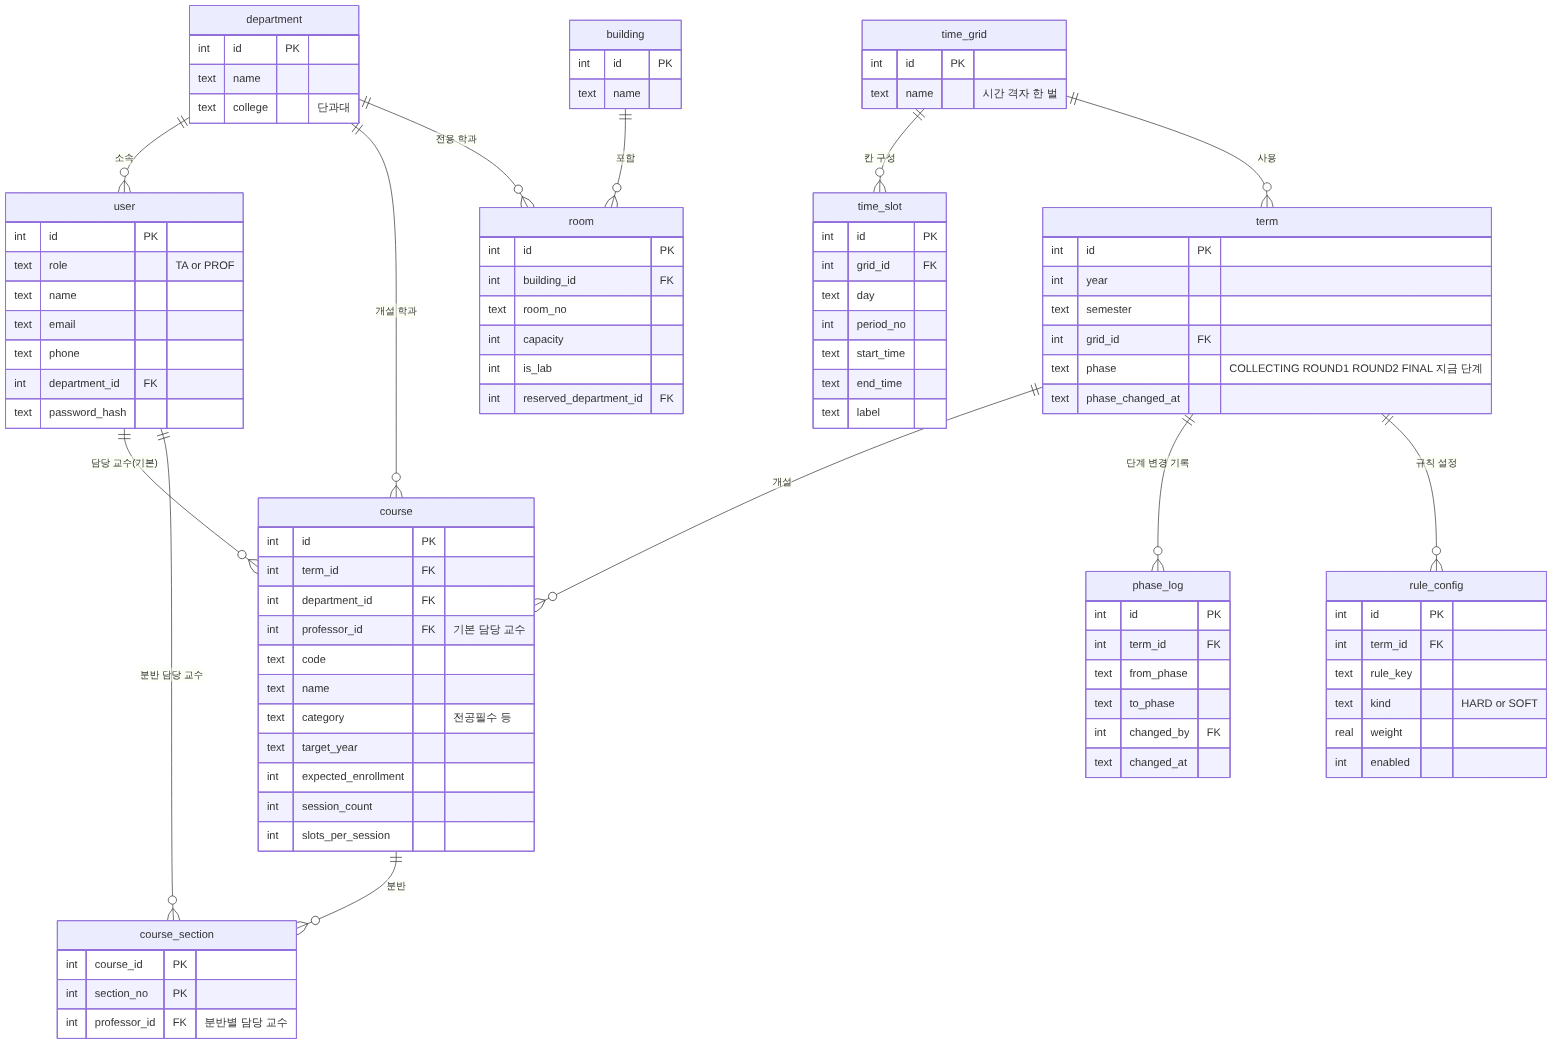
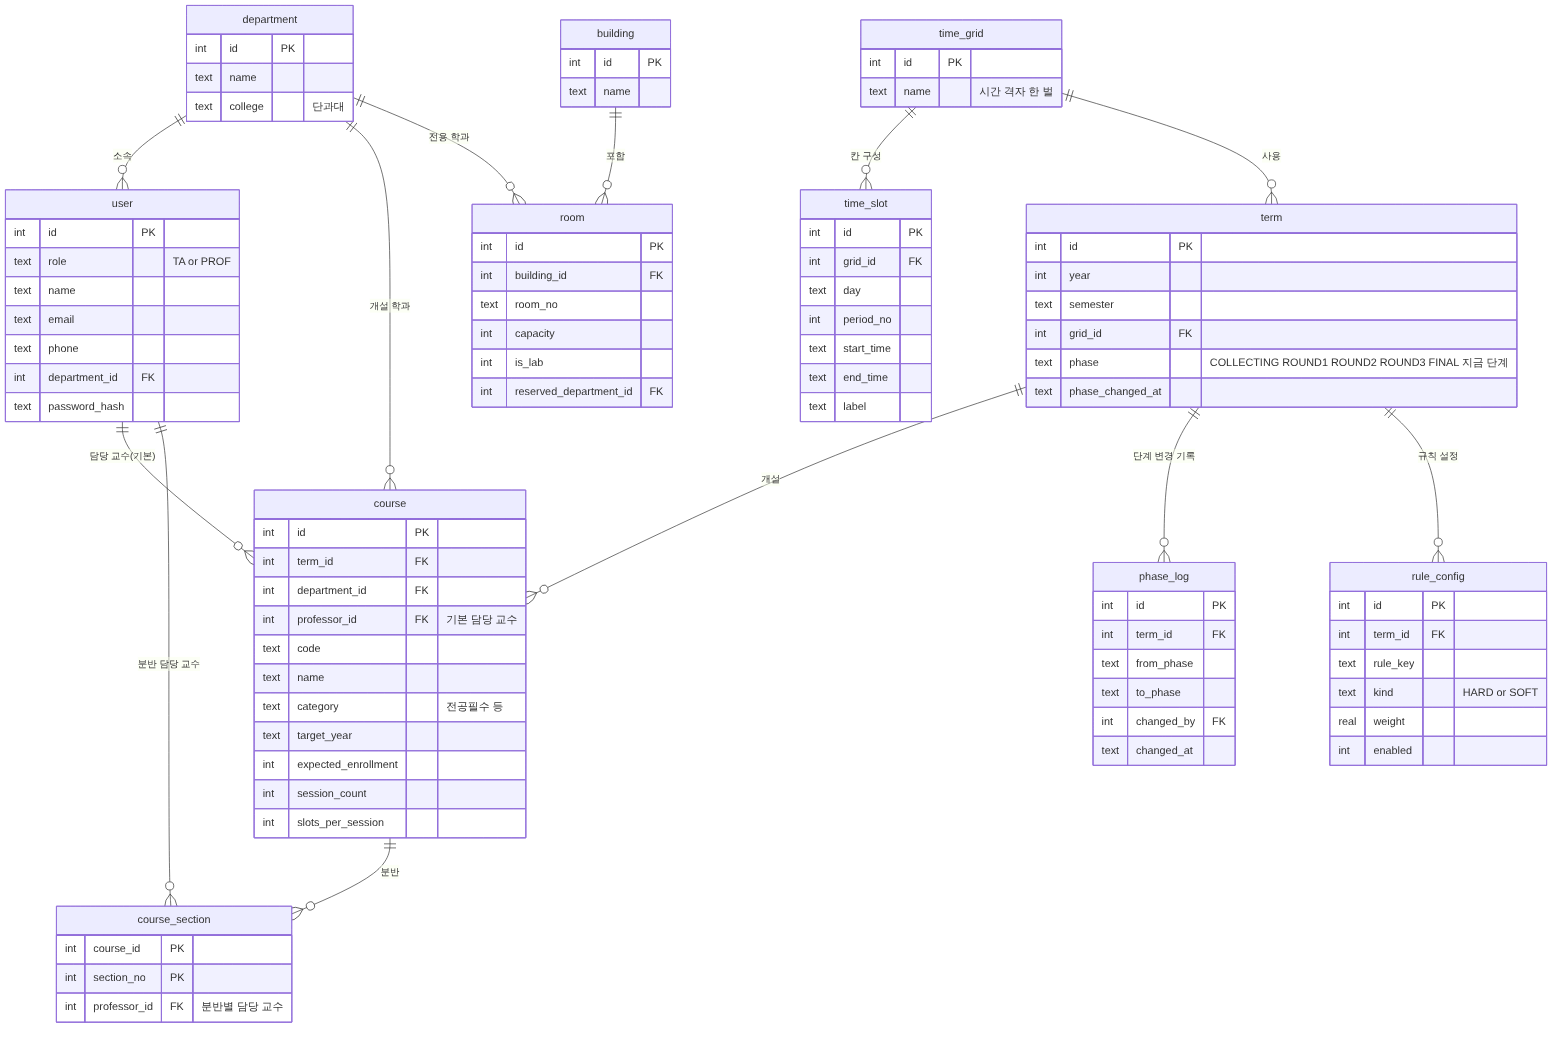
db, solver: 단계에 3차 조율(ROUND3) 추가, day_slots 검사 스크립트 추가
- db: term.phase에 ROUND3 추가 (희망 수집 → 1차 → 2차 → 3차 → 확정). db.py PHASES·라벨,
  변경 SQL 004(term 다시 만들기), archive/schema_v6.sql(003까지의 모양), README·ER(c1, c2) 갱신
- db/tests/test_migration.py: 004까지 두 경로 검사, 진행 중이던 학기의 단계가 그대로 유지되는지 확인
- solver: tests/run_ds.py 추가(alternatives의 day_slots 조건 검사), run_ph.py에 3차 조율 단계 추가,
  SOLVER_API.md 단계 설명 갱신
- AI 도구 사용: Claude Code로 작성하고 가상 데이터로 검사

Claude-Session: https://claude.ai/code/session_019RDjZfYuxESNMrtJifXudv

diff --git a/solver/tests/run_ds.py b/solver/tests/run_ds.py
@@ -1,0 +1,49 @@
+"""day_slots 조건 검사: 요일 둘 이상 / 하나 / 빈 값 / 연강 / 안 맞는 시각"""
+from test_solver2 import *
+c = build(); sp = add_section_profs(c)
+r = sc.solve(c, 1, 1, time_limit=30); tt = r['timetable_id']
+print("1차:", r['status'], "못놓음", len(r['unplaced'])); verify(c, tt)
+info = {sid: (d, st) for sid, d, st in c.execute("select id, day, start_time from time_slot")}
+DAYN = {"월": 0, "화": 1, "수": 2, "목": 3, "금": 4}
+pos = lambda sid: (DAYN[info[sid][0]], info[sid][1])
+prev = sc.load_assignment(c, tt)[0]
+
+def cand(single):   # 2회×1칸 분반이고, 분반이 하나인 과목 중 single_day_pref가 single인 것
+    for (cid, sec, ss) in prev:
+        if cid in sp or sec != 1: continue
+        row = c.execute("select single_day_pref from course_response where course_id=? limit 1", (cid,)).fetchone()
+        if row and row[0] == single:
+            n = c.execute("select count(distinct session_no) from assignment where timetable_id=? and course_id=?", (tt, cid)).fetchone()[0]
+            if single == 'NONE' and n == 2: return cid
+            if single == 'MUST' and n == 1: return cid
+    return None
+
+def run(name, cid, cond, check, n=3):
+    a = sc.alternatives(c, 1, 1, tt, cid, condition=cond, n=n, time_limit=10)
+    cells = [[pos(v[0]) for v in x['placements'].values()] for x in a]
+    ok = check(cells)
+    print(f"[{name}] 대안 {len(a)}개 {cells[:2]}  조건 {'OK' if ok else '위반!!'}")
+    return a
+
+cid = cand('NONE'); print("대상(주 2회):", cid, "현재:", [pos(v[0]) for k, v in prev.items() if k[0] == cid])
+# 1) 요일 둘 이상: 월 13:30·15:00 시작, 수는 아무 교시 -> 월·수 밖에는 없고, 월은 그 두 시각만
+a = run("월(13:30,15:00)+수(전체)", cid, {"day_slots": {"0": ["13:30", "15:00"], "2": []}},
+        lambda cs: all(d in (0, 2) and (d == 2 or t in ("13:30", "15:00")) for row in cs for d, t in row))
+# 2) 요일 하나: 화 10:30만 -> 화가 들어가야 하고 화는 10:30만, 다른 하루는 자유
+a = run("화 10:30만 (하나)", cid, {"day_slots": {"1": ["10:30"]}},
+        lambda cs: all(any(d == 1 for d, _ in row) and all(t == "10:30" for d, t in row if d == 1) for row in cs))
+# 3) 빈 값: 조건 없음 -> 조건 없이 한 것과 같은 개수
+b1 = sc.alternatives(c, 1, 1, tt, cid, condition={"day_slots": {}}, n=3, time_limit=10)
+b2 = sc.alternatives(c, 1, 1, tt, cid, condition=None, n=3, time_limit=10)
+print(f"[빈 day_slots] 대안 {len(b1)}개 / 조건 없음 {len(b2)}개  {'OK' if len(b1) == len(b2) else '다름!!'}")
+# 4) 시작 시각이 격자에 없음 -> 불가능(0개). 조건이 무시되면 안 된다
+a = run("격자에 없는 시각만(월 13:00, 수 15:30)", cid, {"day_slots": {"0": ["13:00"], "2": ["15:30"]}}, lambda cs: len(cs) == 0)
+# 5) end_before와 같이: 화 전체 + 수 전체, 수는 12:00 전에 끝
+a = run("화·수 전체 + 수 13:30 전 종료(end_before)", cid, {"day_slots": {"1": [], "2": []}, "end_before": [{"day": 2, "time": "13:30"}]},
+        lambda cs: all(d in (1, 2) and (d != 2 or t in ("09:00", "10:30")) for row in cs for d, t in row))
+# 6) 연강(2칸 연속) 분반: 두 교시가 모두 있어야 함
+cm = cand('MUST'); print("대상(연강):", cm, "현재:", [pos(v[0]) for k, v in prev.items() if k[0] == cm])
+if cm:
+    a = run("연강: 목 13:30만 (15:00 빠짐)", cm, {"day_slots": {"3": ["13:30"]}}, lambda cs: len(cs) == 0 or all(d != 3 for row in cs for d, _ in row))
+    a = run("연강: 목 13:30+15:00", cm, {"day_slots": {"3": ["13:30", "15:00"]}},
+            lambda cs: len(cs) > 0 and all(d == 3 for row in cs for d, _ in row))

diff --git a/db/tests/test_migration.py b/db/tests/test_migration.py
@@ -59,17 +59,20 @@ def build_v3():
 def counts(con, tabs): return {t: con.execute(f"select count(*) from {t}").fetchone()[0] for t in tabs}
 KEEP = ("response_slot", "proposal", "reply_interpretation", "assignment", "course", "term")
 
-print("=== 경로 1: schema_v3 → 001 → 002 → 003")
+print("=== 경로 1: schema_v3 → 001 → 002 → 003 → 004")
 old = build_v3(); before = counts(old, KEEP); before["response_slot"] -= 1   # AVOID 1개는 003에서 지워지는 게 정상
 run(P("migrations","001_20261121_feedback.sql"), old)
 run(P("migrations","002_20261122_phase_other_request.sql"), old)
 run(P("migrations","003_20261122_lab_binary_no_avoid.sql"), old)
-ok1 = compare("001+002+003 적용 후", old)
+old.execute("UPDATE term SET phase='ROUND2', phase_changed_at='2026-11-22 10:00:00' WHERE id=1"); old.commit()   # 004 전에 진행 중이던 학기
+run(P("migrations","004_20261122_phase_round3.sql"), old)
+ok1 = compare("001~004 적용 후", old)
 print("  행 수 보존:", before == counts(old, KEEP), "| 응답 수:", old.execute("select count(*) from course_response").fetchone()[0])
 print("  기타 요청 옮김:", old.execute("select id, response_id, body, status from other_request").fetchall())
 print("  prefer_only:", old.execute("select id, prefer_only from course_response order by id").fetchall())
 print("  request_item:", old.execute("select id, response_id, type, value_int, source, created_by, created_at, other_request_id from request_item order by id").fetchall())
-print("  term 단계:", old.execute("select id, phase, phase_changed_at from term").fetchall())
+print("  term 단계(ROUND2 그대로여야 함):", old.execute("select id, phase, phase_changed_at from term").fetchall())
+old.execute("UPDATE term SET phase='ROUND3' WHERE id=1"); print("  ROUND3 허용: OK")
 print("  응답 칸(AVOID 삭제, 2개 남아야 함):", old.execute("select slot_id, kind from response_slot where response_id=100 order by slot_id").fetchall())
 print("  실습실 값(REQUIRE→1, NONE→0):", old.execute("select id, lab_requirement from course_response order by id").fetchall())
 for bad in ["INSERT INTO term(id,year,semester,grid_id,phase) VALUES (9,2027,'1',1,'아무거나')",
@@ -80,12 +83,13 @@ for bad in ["INSERT INTO term(id,year,semester,grid_id,phase) VALUES (9,2027,'1'
     try: old.execute(bad); print("  거부 안 됨!!", bad[:60])
     except sqlite3.IntegrityError as e: print("  새 규칙 거부 OK:", str(e)[:60])
 
-print("\n=== 경로 2: schema_v4(001까지 적용된 모양)에서 002 → 003")
+print("\n=== 경로 2: schema_v4(001까지 적용된 모양)에서 002 → 003 → 004")
 v4 = sqlite3.connect(":memory:"); v4.executescript(open(P("archive","schema_v4.sql")).read()); seed(v4)
 v4.execute("INSERT INTO course_response(id,round_id,course_id,professor_id,lab_requirement,single_day_pref,note) VALUES (100,1,10,2,'PREFER','PREFER','메모')")
 v4.execute("INSERT INTO request_item(response_id,type,value_int) VALUES (100,'SECTION_COUNT',2)"); v4.commit()
 run(P("migrations","002_20261122_phase_other_request.sql"), v4)
 run(P("migrations","003_20261122_lab_binary_no_avoid.sql"), v4)
-ok2 = compare("v4 + 002 + 003", v4)
+run(P("migrations","004_20261122_phase_round3.sql"), v4)
+ok2 = compare("v4 + 002~004", v4)
 print("  응답:", v4.execute("select id, professor_id, lab_requirement, single_day_pref, prefer_only from course_response").fetchall(), "| 기타 요청:", v4.execute("select body, status from other_request").fetchall())
 print("\n결과:", "모두 통과" if ok1 and ok2 else "실패")

diff --git a/db/db.py b/db/db.py
@@ -10,8 +10,8 @@ def connect(path="ssuroom.db"):
 
 
 # ---------------------------------------------------------------- 서버 단계
-PHASES = ["COLLECTING", "ROUND1", "ROUND2", "FINAL"]
-PHASE_LABELS = {"COLLECTING": "희망 수집", "ROUND1": "1차 조율", "ROUND2": "2차 조율", "FINAL": "확정"}
+PHASES = ["COLLECTING", "ROUND1", "ROUND2", "ROUND3", "FINAL"]
+PHASE_LABELS = {"COLLECTING": "희망 수집", "ROUND1": "1차 조율", "ROUND2": "2차 조율", "ROUND3": "3차 조율", "FINAL": "확정"}
 
 
 def get_phase(con, term_id):
@@ -23,7 +23,7 @@ def get_phase(con, term_id):
 
 
 def set_phase(con, term_id, to_phase, user_id=None, force=False):
-    """단계를 바꾸고 기록을 남긴다. 기본은 다음 단계로 한 칸씩만(희망 수집 → 1차 조율 → 2차 조율 → 확정).
+    """단계를 바꾸고 기록을 남긴다. 기본은 다음 단계로 한 칸씩만(희망 수집 → 1차 조율 → 2차 조율 → 3차 조율 → 확정).
     시연 중 처음으로 되돌리거나 건너뛰려면 force=True."""
     if to_phase not in PHASES:
         raise ValueError(f"단계는 {PHASES} 중 하나여야 합니다: {to_phase}")

diff --git a/solver/tests/run_ph.py b/solver/tests/run_ph.py
@@ -6,7 +6,7 @@ print("→", db.set_phase(c, 1, "ROUND1", user_id=None)["label"])
 for bad, kw in [("FINAL", {}), ("COLLECTING", {}), ("엉뚱", {})]:
     try: db.set_phase(c, 1, bad, **kw); print("막히지 않음!!", bad)
     except ValueError as e: print(f"막힘({bad}):", str(e)[:70])
-print("→", db.set_phase(c, 1, "ROUND2")["label"], "→", db.set_phase(c, 1, "FINAL")["label"])
+print("→", db.set_phase(c, 1, "ROUND2")["label"], "→", db.set_phase(c, 1, "ROUND3")["label"], "→", db.set_phase(c, 1, "FINAL")["label"])
 print("되돌리기(force):", db.set_phase(c, 1, "COLLECTING", force=True)["label"])
 print("기록:", c.execute("select from_phase, to_phase from phase_log order by id").fetchall())
 try: c.execute("UPDATE term SET phase='아무거나' WHERE id=1"); print("DB가 막지 않음!!")

diff --git a/db/README.md b/db/README.md
@@ -13,9 +13,10 @@ SSU:room의 SQLite 스키마, 변경 SQL, 연결·단계 관리 함수입니다.
 | `migrations/001_20261121_feedback.sql` | `archive/schema_v3.sql`로 만든 DB → 11/21 피드백 반영 모양 |
 | `migrations/002_20261122_phase_other_request.sql` | 001까지 적용한 DB → 단계 관리, 선호 시간 외 불가, 기타 요청 재설계 |
 | `migrations/003_20261122_lab_binary_no_avoid.sql` | 002까지 적용한 DB → `AVOID` 제거, 실습실 0/1 |
+| `migrations/004_20261122_phase_round3.sql` | 003까지 적용한 DB → 단계에 `ROUND3`(3차 조율) 추가 |
 | `docs/c1.png` `c2.png` `c3.png` | ER 다이어그램 (원본 `c1.mmd` `c2.mmd` `c3.mmd`) |
 | `tests/test_migration.py` | 변경 SQL 검사 |
-| `archive/schema_v1~v5.sql` | 지난 버전 (참고용). v4 = 001까지, v5 = 002까지 적용한 모양 |
+| `archive/schema_v1~v6.sql` | 지난 버전 (참고용). v4 = 001까지, v5 = 002까지, v6 = 003까지 적용한 모양 |
 
 ER 다이어그램: `c1.png` 기초 정보(학과·교수·강의실·과목·분반 교수·시간 칸·학기 단계), `c2.png` 1차 응답 수집·기타 요청, `c3.png` 시간표·대안·메시지.
 
@@ -45,14 +46,14 @@ python db/tests/test_migration.py    # 변경 SQL 검사 (오류 없이 '모든 
 | **선호 시간 외 불가** | 희망으로 칠한 칸 밖에서는 수업하기 어려움 | `course_response.prefer_only` (0/1) |
 | **칠한 칸** | 희망 `PREFER` / 불가 `BLOCK`. 칠하지 않은 칸은 상관없음 | `response_slot.kind` |
 | **분반 담당 교수** | 분반마다 교수가 다를 수 있음. `course_section`에 행이 있으면 그 교수, 없으면 `course.professor_id` | `course_section` (조교 입력) |
-| **서버 단계** | `COLLECTING` 희망 수집 → `ROUND1` 1차 조율 → `ROUND2` 2차 조율 → `FINAL` 확정 | `term.phase`, `phase_log` |
+| **서버 단계** | `COLLECTING` 희망 수집 → `ROUND1` 1차 조율 → `ROUND2` 2차 조율 → `ROUND3` 3차 조율 → `FINAL` 확정 | `term.phase`, `phase_log` |
 | **기타 요청** | 교수가 자연어로 쓴 글. AI 없이 조교가 읽고 "확인함"을 누른다 | `other_request` |
 
 ## 단계와 기타 요청 (`db.py`)
 
 ```python
 db.get_phase(con, term_id)                    # ('ROUND1', '1차 조율')
-db.set_phase(con, term_id, 'ROUND2', user_id) # 한 칸씩만. 건너뛰기·되돌리기는 force=True. phase_log에 기록
+db.set_phase(con, term_id, 'ROUND3', user_id) # 한 칸씩만. 건너뛰기·되돌리기는 force=True. phase_log에 기록
 db.pending_other_requests(con, round_id)      # 조교가 아직 확인 안 한 기타 요청
 db.confirm_other_request(con, other_request_id, user_id, memo=None)
 ```
@@ -73,7 +74,7 @@ db.confirm_other_request(con, other_request_id, user_id, memo=None)
 | 11/21 | 주 1회 연강 3단계 | 반영 | `course_response.single_day_pref` (MUST/PREFER/NONE) |
 | 11/21 → 11/22 | 실습실 3단계 → **0/1** | 반영 | `course_response.lab_requirement` (INTEGER 0/1). 003이 MUST·PREFER→1, NONE→0으로 옮김 |
 | 11/22 | "선호 시간을 제외하면 수업하기 어렵다" 버튼 | 반영 | `course_response.prefer_only` |
-| 11/22 | 서버 단계 관리 | 반영 | `term.phase`, `phase_log`, `db.get_phase` `db.set_phase` |
+| 11/22 | 서버 단계 관리 (3차 조율 `ROUND3` 포함) | 반영 | `term.phase`, `phase_log`, `db.get_phase` `db.set_phase`. 004가 `ROUND3`를 추가 |
 | 11/22 | 기타 요청은 AI 없이 조교가 확인 | 반영 | `other_request`, `request_item` 재설계. `note`와 `source='NLP'`는 없앰 |
 | 11/22 | 시간표 칠하기에서 `AVOID` 제거 | 반영 | `response_slot.kind` = `PREFER`/`BLOCK` |
 | 11/22 | 로그인 없이 교수·조교 화면 전환 (시연) | 프런트 일 | DB 변경 없음. 시연 계정은 `user` 행을 만들고 `password_hash`에 아무 값이나 넣는다 |
@@ -98,14 +99,16 @@ cp ssuroom.db ssuroom.db.bak
 sqlite3 ssuroom.db < db/migrations/001_20261121_feedback.sql            # archive/schema_v3로 만든 DB만
 sqlite3 ssuroom.db < db/migrations/002_20261122_phase_other_request.sql # 001까지 된 DB
 sqlite3 ssuroom.db < db/migrations/003_20261122_lab_binary_no_avoid.sql # 002까지 된 DB
+sqlite3 ssuroom.db < db/migrations/004_20261122_phase_round3.sql        # 003까지 된 DB
 ```
 
 - **001**: 기존 응답의 `professor_id`는 그 과목의 담당 교수로, `single_day_pref`는 `NONE`으로 채웁니다(그때는 묻지 않았던 질문). `REQUIRE`는 `MUST`로, 한글 label은 영어 코드로 바꿉니다.
 - **002**: `term`에 `phase`(기존 학기는 `COLLECTING`으로 시작. 이미 진행 중이면 직접 바꿀 것), `phase_log`, `other_request` 생성. 기존 `course_response.note`는 `other_request`에 `PENDING`으로 옮기고 칸은 없앱니다. `prefer_only`는 모두 0. `request_item`은 `source`가 `FORM`이 아니면 `TA`로.
 - **003**: `AVOID` 칸은 지워집니다(= 상관없음). 실습실은 MUST·PREFER → 1, NONE → 0.
+- **004**: `term` 테이블을 다시 만들어 `phase`에 `ROUND3`를 추가합니다. 학기 행과 지금 단계는 그대로 옮깁니다.
 - 마지막 `PRAGMA foreign_key_check`가 아무것도 출력하지 않아야 정상입니다. 두 번 실행하면 오류가 납니다.
 - **주의**: `term` 칸이 늘어서 `INSERT INTO term VALUES (...)`처럼 칸 이름 없이 넣던 코드는 칸 이름을 적어야 합니다.
-- `tests/test_migration.py`가 v3→001→002→003, v4→002→003 두 경로가 최종 `schema.sql`과 같은 모양을 만들고, 데이터를 보존하며, 새 규칙(잘못된 단계·`NLP`·`AVOID` 거부)이 작동하는지 검사합니다.
+- `tests/test_migration.py`가 v3→001→002→003→004, v4→002→003→004 두 경로가 최종 `schema.sql`과 같은 모양을 만들고, 데이터를 보존하며, 새 규칙(잘못된 단계·`NLP`·`AVOID` 거부)이 작동하는지 검사합니다.
 
 ## 알려진 한계
 

diff --git a/solver/SOLVER_API.md b/solver/SOLVER_API.md
@@ -51,9 +51,27 @@ opts = sc.make_alternatives(con, term_id, round_id, timetable_id, course_id,
 | `by_day` | 요일별 시간대 `{"요일번호": [시작, 끝]}`. 한 요일에 여러 개면 `[[시작,끝],[시작,끝]]` | **적힌 요일에서만**, 그 요일의 시간대 안에서만(수업 전체가 범위 안에 들어가야 함). 요일 키는 `"0"`도 `0`도 됨 |
 | `end_before` | 요일별로 끝나야 하는 시각 | 그 요일에 놓이는 수업은 끝 시각 ≤ time |
 | `slot_ids` | 칸 번호 목록(위 셋 대신 써도 됨) | 수업이 차지하는 칸이 모두 목록 안에 있어야 함 |
+| `day_slots` | 요일(0~4) → 그 요일에 되는 교시의 **시작 시각** 목록. 빈 목록 = 그 요일 아무 교시나 | 아래 "`day_slots`" 참고. 안에서 `days`·`slot_ids`로 바뀐다 |
 
 - `days`(하나면 "그 요일이 들어간 안")와 `by_day`("적힌 요일에서만")는 뜻이 다르다. 한 요일만 허용하려면 `by_day`, 그 요일이 꼭 들어가면 되는 경우는 `days`.
 - 시각은 75분 격자(1교시 09:00~10:15, 2교시 10:30~11:45, …)와 맞춰야 한다. 예를 들어 `["09:00","10:30"]`은 1교시만 통과한다(2교시는 10:30에 시작해서 범위를 벗어남).
+
+### `day_slots`
+
+```json
+{"day_slots": {"0": ["13:30", "15:00"], "2": []}, "end_before": [{"day": 2, "time": "17:00"}]}
+```
+
+| `day_slots` | 솔버 조건으로 바뀐 모양 | 뜻 |
+|---|---|---|
+| 요일 둘 이상 | `slot_ids` = 그 요일들의 해당 교시 칸 (빈 목록이면 그 요일 전체 칸) | 수업은 그 요일들 안에서만, 각 요일은 적힌 교시에서만 |
+| 요일 하나 | `days: [그 요일]` + `slot_ids` = 그 요일의 해당 교시 칸 + 나머지 요일 전체 칸 | 그 요일이 들어가야 하고(그 요일엔 적힌 교시만), 주 2회의 다른 하루는 자유 |
+| 비어 있음(`{}`·`null`) | 없음 | 요일·교시 조건 없음 |
+
+- `end_before`는 현재 형식 그대로 함께 쓴다(모두 AND).
+- **연강(2칸 이어진 수업)** 은 두 교시가 모두 목록에 있어야 놓인다. 예: `{"3": ["13:30"]}`이면 목요일 연강은 15:00 교시가 빠져서 못 놓이고, `["13:30","15:00"]`이면 놓인다.
+- 시작 시각은 격자의 교시 시작과 정확히 같아야 한다(`"9:00"`도 `"09:00"`로 본다). 어느 교시와도 안 맞으면 그 교시는 없는 것으로 보고, 갈 곳이 없으면 대안은 0개로 나온다(조건이 무시되지 않는다).
+- `days`·`slot_ids`를 `day_slots`와 같이 주면 둘 다 만족해야 한다. 같이 쓰지 않는 편이 안전하다.
 
 조건은 **대상 과목·분반에만** 적용된다. 시간은 `"HH:MM"` 0 채움 형식.
 
@@ -123,7 +141,7 @@ db.pending_other_requests(con, round_id)      # 조교가 아직 확인 안 한 
 db.confirm_other_request(con, other_request_id, user_id, memo=None)
 ```
 
-- 단계: `COLLECTING` 희망 수집 → `ROUND1` 1차 조율 → `ROUND2` 2차 조율 → `FINAL` 확정.
+- 단계: `COLLECTING` 희망 수집 → `ROUND1` 1차 조율 → `ROUND2` 2차 조율 → `ROUND3` 3차 조율 → `FINAL` 확정.
 - 기타 요청은 AI를 거치지 않는다. 교수 원문(`other_request.body`, `PENDING`) → 조교가 읽고 필요하면 `request_item`(`source='TA'`, `other_request_id`)을 직접 입력 → "확인함"(`CONFIRMED`).
 - 솔버가 읽는 `request_item` 종류는 `SECTION_COUNT`, `SECTION_PAIR`뿐이다. 그 밖의 요청은 조교가 보고 판단한다.
 
